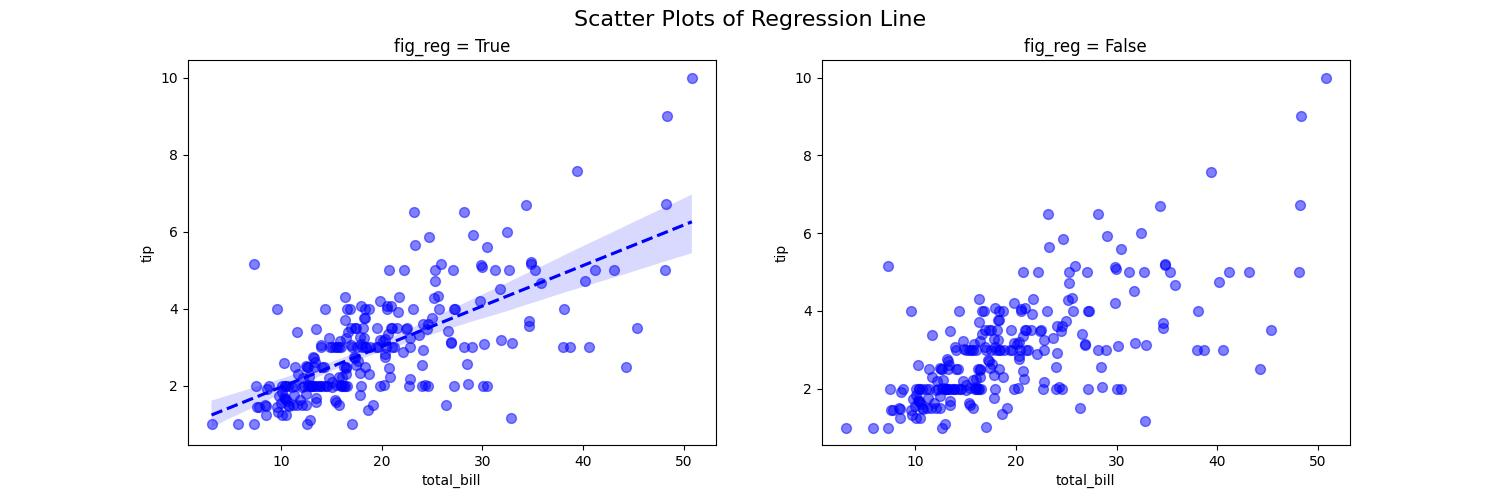
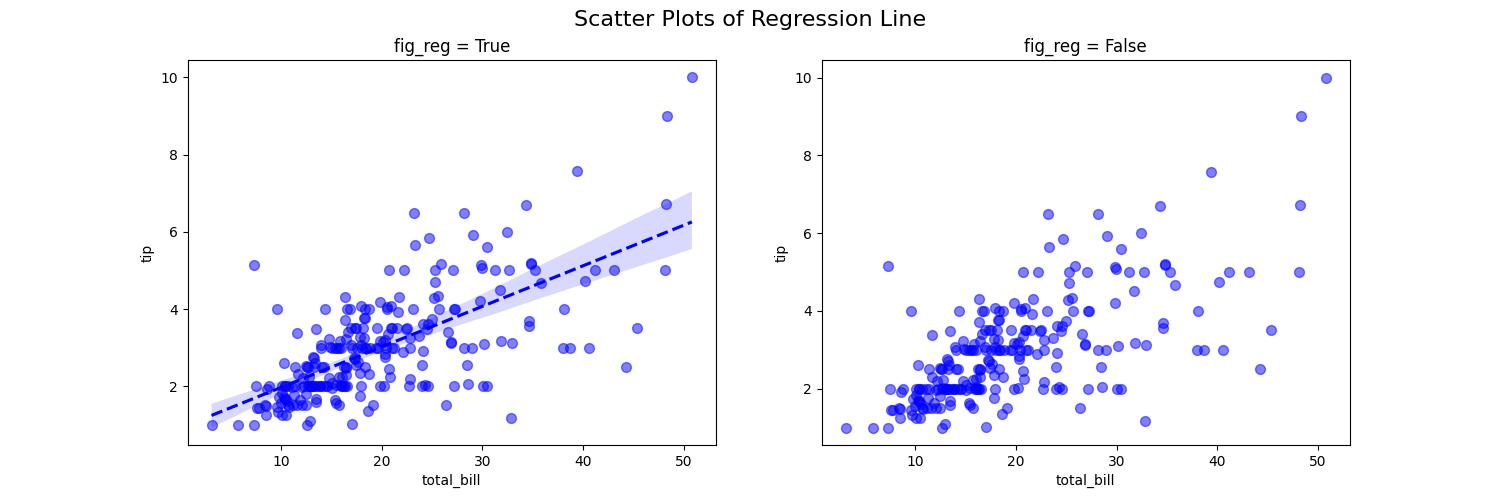
Updated Changes

diff --git a/week04/seaborn_code.py b/week04/seaborn_code.py
@@ -78,7 +78,7 @@ plt.savefig('./week04/Seaborn_Figure05.jpg')
 
 # **관계 그래프**
 # pairplot( ) 그리기
-sns.pairplot(data=tips, hue='sex',diag_kind='his', palette='hus1')
+sns.pairplot(data=tips, hue='sex', diag_kind='hist', palette='husl')
 
-plt.suptitle('Pair Plot of Tips Dataset', y=1.05)
+plt.suptitle('Pairplot with Histograms by Gender', y=1.05)
 plt.savefig('./week04/Seaborn_Figure06.jpg')
